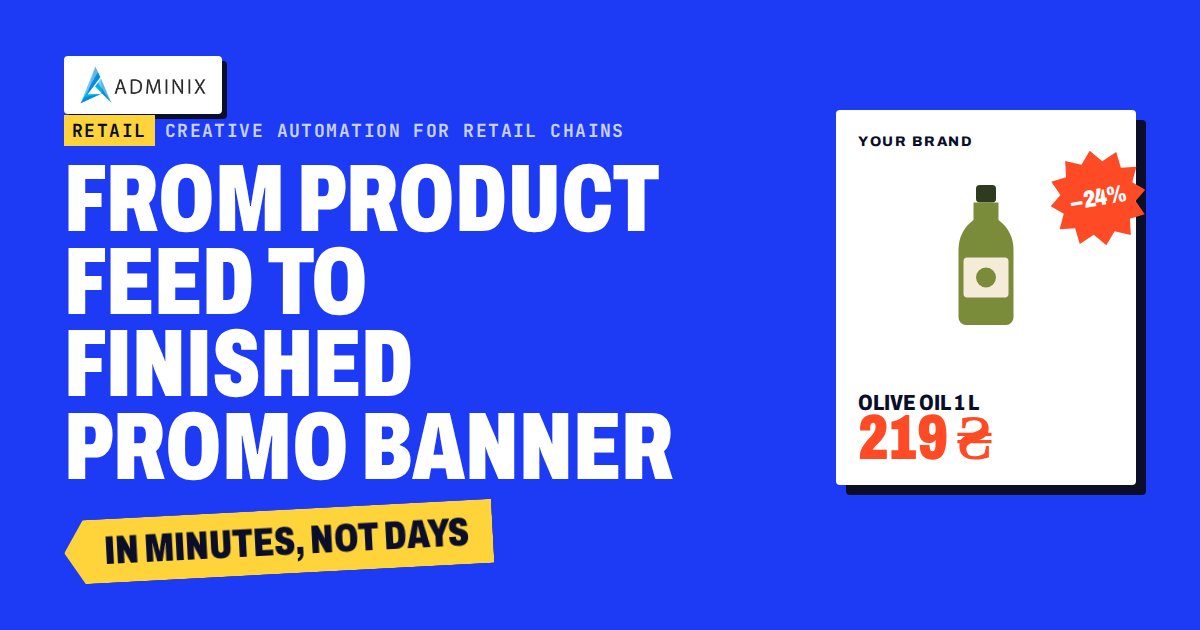
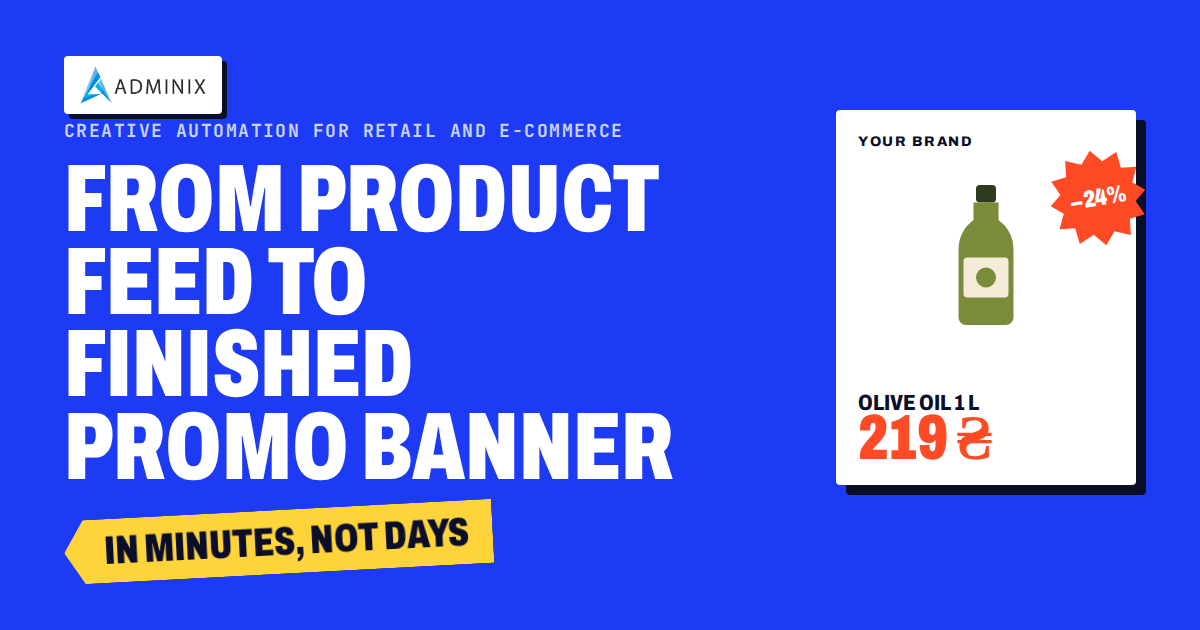
Simplify hero kicker to 'Creative automation for retail and e-commerce'
Drop the yellow 'Retail' badge that repeated the label; update the
share image to match.

Claude-Session: https://claude.ai/code/session_018oeJe16JmR66FiRhSxBqC2

Changed region(s): [[0.0308, 0.181, 0.5242, 0.2413]]

diff --git a/styles.css b/styles.css
@@ -101,7 +101,6 @@ h3 { font-size: clamp(24px, 2.2vw, 30px); line-height: 1; font-stretch: 75%; }
 .hero-grid { display: grid; gap: 56px; align-items: center; }
 @media (min-width: 1040px) { .hero-grid { grid-template-columns: minmax(0, 1.15fr) minmax(0, 1fr); gap: 48px; } }
 .kicker { font: 600 13px/1.4 var(--mono); letter-spacing: .08em; text-transform: uppercase; color: var(--mist); margin-bottom: 22px; display: flex; gap: 10px; align-items: center; flex-wrap: wrap; }
-.kicker b { color: var(--ink); background: var(--tag); padding: 3px 7px; font-weight: 700; }
 
 .tag-wrap { position: relative; }
 .tag-wrap::before { /* the tag's string */

diff --git a/index.html b/index.html
@@ -52,7 +52,7 @@
     <section class="hero" id="top">
       <div class="wrap hero-grid">
         <div class="hero-copy">
-          <p class="kicker"><b>Retail</b> Creative automation for retail chains</p>
+          <p class="kicker">Creative automation for retail and e-commerce</p>
           <h1>From product feed to finished promo banner</h1>
           <div class="tag-wrap"><span class="tag">In minutes, not days</span></div>
           <p class="lede">Adminix connects to your ERP, e-commerce feed or Excel and turns every SKU into brand-compliant posters and banners for every channel, inside the templates your designers approved.</p>
